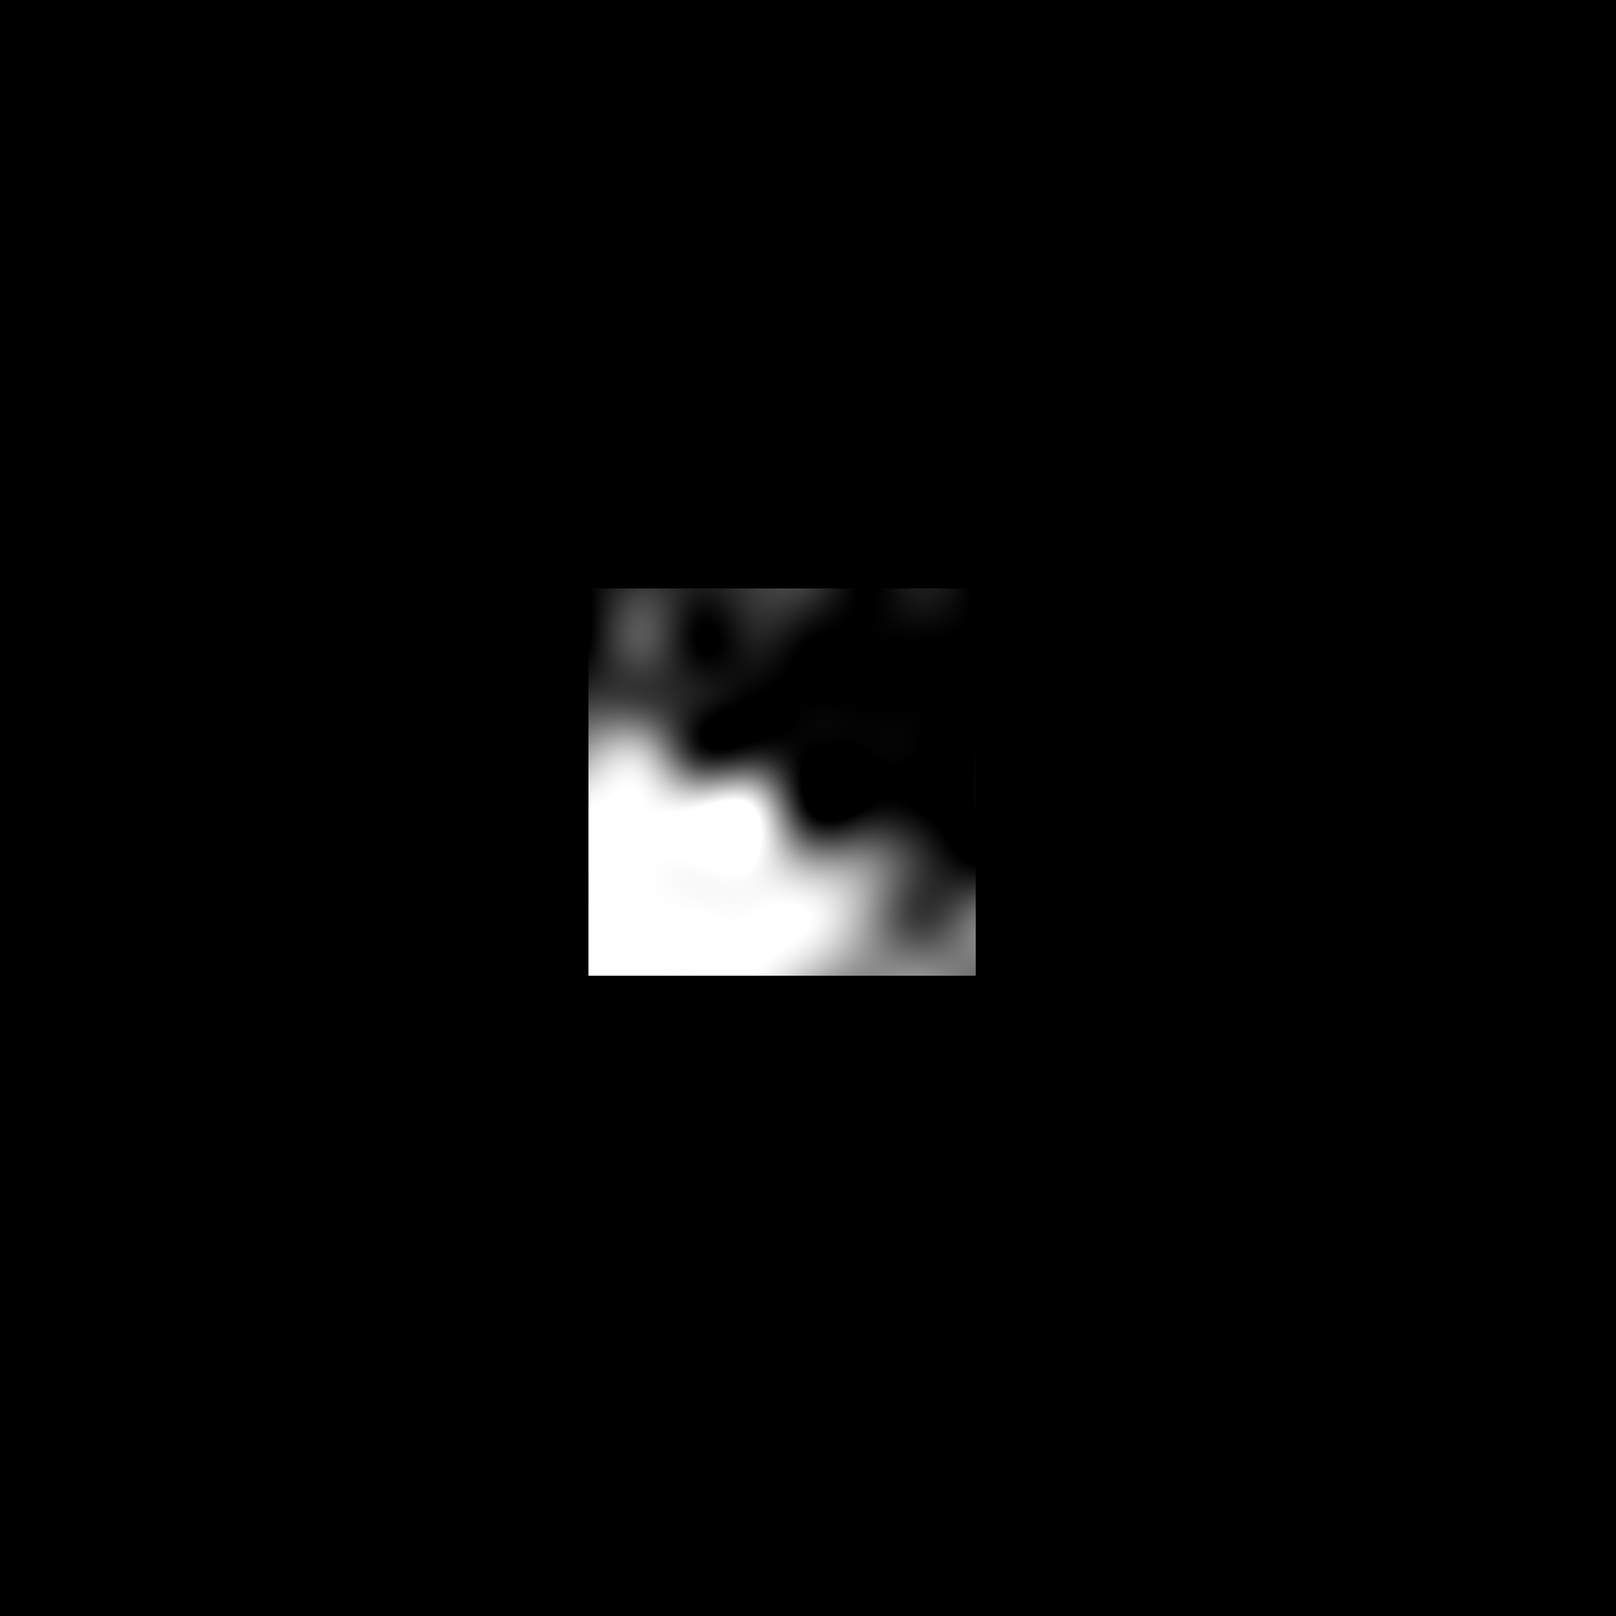
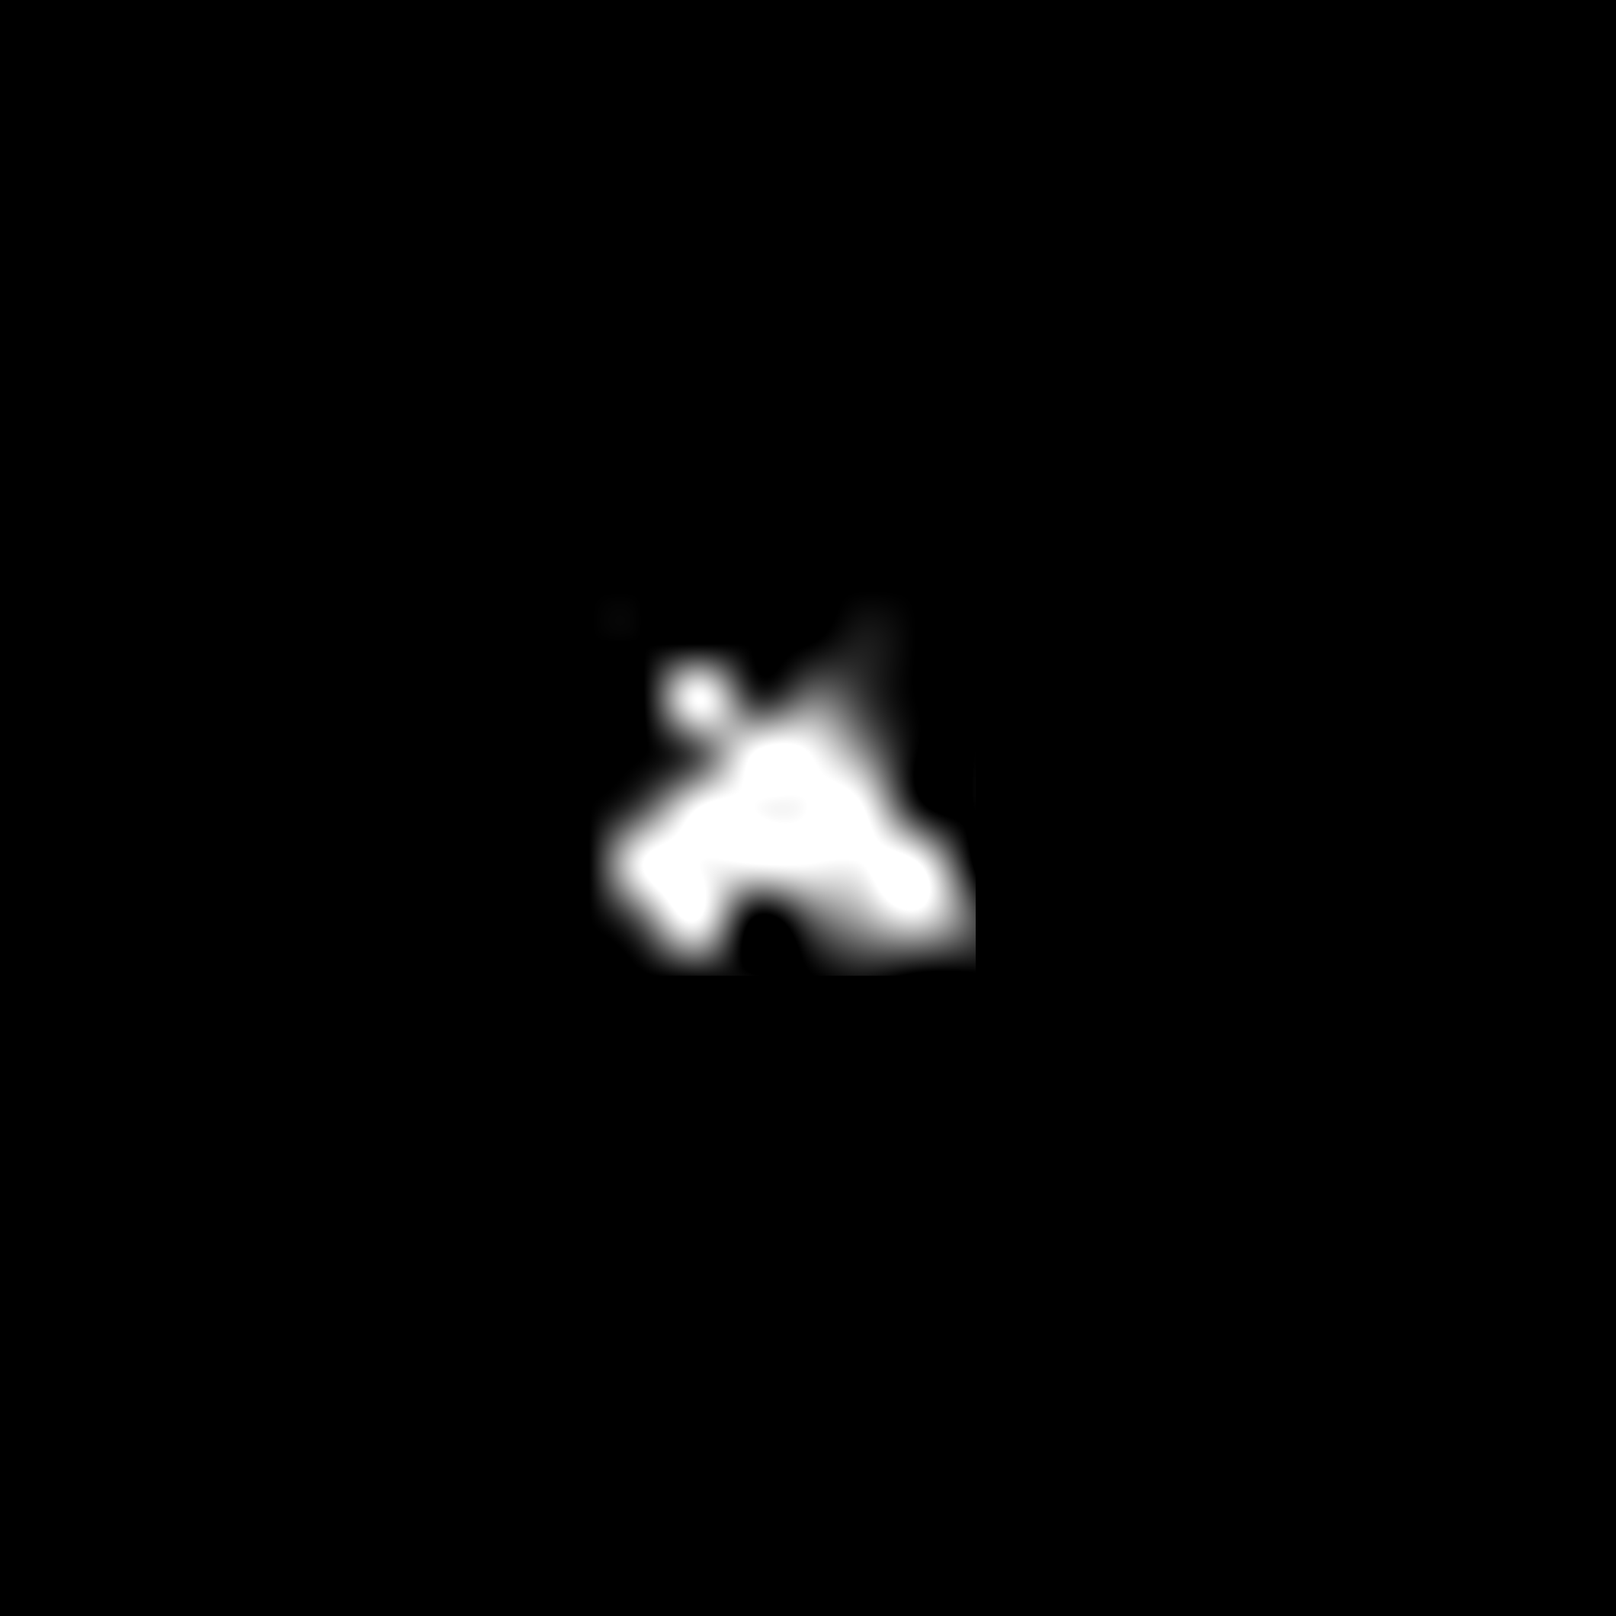
[Visual Disease]
- Rename code to clarify VI
- Add disable_save and debug support for impairment task
- Add vi mode and level selection support for impairment task
- Add overlay level support

Changed region(s): [[0.3425, 0.3425, 0.6226, 0.6226]]

diff --git a/igibson/render/mesh_renderer/mesh_renderer_vr.py b/igibson/render/mesh_renderer/mesh_renderer_vr.py
@@ -230,18 +230,21 @@ class MeshRendererVR(MeshRenderer):
         self.msaa = False
         self.vr_hud = None
 
-        # post processing mode
-        self.post_processing_mode = 0
+        # visual impairment mode
+        self.vi_mode = 0
+        self.vi_level = 1
+
         self.dioptres = -2.0
         self.presbyopia_near_point = 600.0
-        # post processing overlay
-        self.post_processing_overlay1_width = 3
-        self.post_processing_overlay2_width = 3.5
-        # self.post_processing_overlay2_width = 8
-        self.post_processing_overlay1 = self.gen_static_overlay("D:/Research/ig2/igibson/examples/vr/visual_disease_demo_mtls/amd4.png", self.post_processing_overlay1_width)
-        self.post_processing_overlay2 = self.gen_static_overlay("D:/Research/ig2/igibson/examples/vr/visual_disease_demo_mtls/gla3.png", self.post_processing_overlay2_width)
-        self.post_processing_overlay1.set_overlay_show_state(False)
-        self.post_processing_overlay2.set_overlay_show_state(False)
+        # visual impairment overlay
+        self.amd_overlay_width = 3
+        self.glaucoma_overlay_width = 3.5
+        self.amd_overlay, self.glaucoma_overlay = [], []
+        for i in range(3):
+            self.amd_overlay.append(self.gen_static_overlay(f"{os.getcwd()}/igibson/examples/vr/visual_disease_demo_mtls/amd{i+1}.png", self.amd_overlay_width))
+            self.glaucoma_overlay.append(self.gen_static_overlay(f"{os.getcwd()}/igibson/examples/vr/visual_disease_demo_mtls/gla{i+1}.png", self.glaucoma_overlay_width))
+            self.amd_overlay[i].set_overlay_show_state(False)
+            self.glaucoma_overlay[i].set_overlay_show_state(False)
 
     def gen_vr_hud(self):
         """
@@ -319,7 +322,7 @@ class MeshRendererVR(MeshRenderer):
         if self.vr_settings.use_vr:
             self.vrsys.releaseVR()
     
-    def update_post_processing_mode(self):
+    def update_vi_mode(self, mode=None):
         """
         Update post processing visual impairment mode
         0: Normal
@@ -330,21 +333,23 @@ class MeshRendererVR(MeshRenderer):
         5: Myopia / Hyperopia
         6: light overexposure
         """
-        self.post_processing_mode = (self.post_processing_mode + 1) % 7
-        self.vrsys.updateUniform1i(self.retinaShaderProgram, "postProcessingMode", self.post_processing_mode)
-        if self.post_processing_mode == 2:
-            self.post_processing_overlay1.set_overlay_show_state(True)
-        elif self.post_processing_mode == 3:
-            self.post_processing_overlay1.set_overlay_show_state(False)
-            self.post_processing_overlay2.set_overlay_show_state(True)
-        elif self.post_processing_mode == 4:
-            self.post_processing_overlay2.set_overlay_show_state(False)
+        if mode and not 0 <= mode <= 6:
+            raise ValueError("Unsuported VI mode")
+        self.vi_mode = mode if mode is not None else (self.vi_mode + 1) % 7
+        self.vrsys.updateUniform1i(self.retinaShaderProgram, "postProcessingMode", self.vi_mode)
+        if self.vi_mode == 2:
+            self.amd_overlay[self.vi_level].set_overlay_show_state(True)
+        elif self.vi_mode == 3:
+            self.amd_overlay[self.vi_level].set_overlay_show_state(False)
+            self.glaucoma_overlay[self.vi_level].set_overlay_show_state(True)
+        elif self.vi_mode == 4:
+            self.glaucoma_overlay[self.vi_level].set_overlay_show_state(False)
             self.vrsys.updateUniform1f(self.lensShaderProgram, "u_near_point", self.presbyopia_near_point)
             self.vrsys.updateUniform1f(self.lensShaderProgram, "u_far_point", 1000000000.0)
             self.vrsys.updateUniform1f(self.lensShaderProgram, "u_near_vision_factor", 1.0)
             self.vrsys.updateUniform1f(self.lensShaderProgram, "u_far_vision_factor", 0.0)
             self.vrsys.updateUniform1i(self.lensShaderProgram, "u_active", 1)
-        elif self.post_processing_mode == 5:
+        elif self.vi_mode == 5:
             if self.dioptres < 0: # myopia
                 self.vrsys.updateUniform1f(self.lensShaderProgram, "u_near_point", 0.0)
                 self.vrsys.updateUniform1f(self.lensShaderProgram, "u_far_point", -1000.0 / self.dioptres)
@@ -355,23 +360,27 @@ class MeshRendererVR(MeshRenderer):
                 self.vrsys.updateUniform1f(self.lensShaderProgram, "u_far_point", 1000000000.0)
                 self.vrsys.updateUniform1f(self.lensShaderProgram, "u_near_vision_factor",  1.0 + self.dioptres * DIOPTRES_SCALING)
                 self.vrsys.updateUniform1f(self.lensShaderProgram, "u_far_vision_factor", 0.0)
-        elif self.post_processing_mode == 6:
+        elif self.vi_mode == 6:
             self.vrsys.updateUniform1i(self.lensShaderProgram, "u_active", 0)
 
 
-    def update_post_processing_effect(self, pos):
-        if self.post_processing_mode == 2:
-            self.post_processing_overlay1.update_pos([(pos[0] - 0.5) * 2.5, (pos[1] - 0.5) * 2.5, -1])
-        elif self.post_processing_mode == 3:
-            self.post_processing_overlay2.update_pos([(pos[0] - 0.5) * 2.5, (pos[1] - 0.5) * 2.5, -1])
+    def update_vi_with_eye_pose(self, pos):
+        if self.vi_mode == 2:
+            self.amd_overlay[self.vi_level].update_pos([(pos[0] - 0.5) * 2.5, (pos[1] - 0.5) * 2.5, -1])
+        elif self.vi_mode == 3:
+            self.glaucoma_overlay[self.vi_level].update_pos([(pos[0] - 0.5) * 2.5, (pos[1] - 0.5) * 2.5, -1])
 
-        # if self.post_processing_mode == 2:
-        #     self.post_processing_overlay1.update_pos([(pos[0] - 0.5) * 4, (0.5 - pos[1]) * 4, -1])
-        # elif self.post_processing_mode == 3:
-        #     self.post_processing_overlay2.update_pos([(pos[0] - 0.5) * 4, (0.5 - pos[1]) * 4, -1])
-
-    def updatre_post_processing_extent(self):
-        if self.post_processing_mode == 5:
+    def update_vi_level(self, level = None):
+        if level and not 1 <= level <= 3:
+            raise ValueError("Currently VI level only supports 1 - 3")
+        new_vi_level = level - 1 if level is not None else (self.vi_level + 1) % 3
+        if self.vi_mode == 2:
+            self.amd_overlay[self.vi_level].set_overlay_show_state(False)
+            self.amd_overlay[new_vi_level].set_overlay_show_state(True)
+        elif self.vi_mode == 3:
+            self.glaucoma_overlay[self.vi_level].set_overlay_show_state(False)
+            self.glaucoma_overlay[new_vi_level].set_overlay_show_state(True)
+        elif self.vi_mode == 5:
             if self.dioptres == -3:
                 self.dioptres = 3
             else:
@@ -386,6 +395,8 @@ class MeshRendererVR(MeshRenderer):
                 self.vrsys.updateUniform1f(self.lensShaderProgram, "u_far_point", 1000000000.0)
                 self.vrsys.updateUniform1f(self.lensShaderProgram, "u_near_vision_factor",  1.0 + self.dioptres * DIOPTRES_SCALING)
                 self.vrsys.updateUniform1f(self.lensShaderProgram, "u_far_vision_factor", 0.0)
+
+        self.vi_level = new_vi_level
 
 if __name__ == "__main__":
     logging.basicConfig(level=logging.INFO)

diff --git a/igibson/examples/vr/impairment_task.py b/igibson/examples/vr/impairment_task.py
@@ -31,6 +31,10 @@ light_modulation_map_filename = os.path.join(
 )
 background_texture = os.path.join(igibson.ig_dataset_path, "scenes", "background", "urban_street_01.jpg")
 
+
+vi_choices = ["normal", "cataract", "amd", "glaucoma", "presbyopia", "myopia"]
+
+
 def load_scene(simulator, task):
     """Setup scene"""
     if task == "slice":
@@ -66,7 +70,6 @@ def load_scene(simulator, task):
 
 def parse_args():
     tasks_choices = ["catch", "navigate", "place", "slice", "throw", "wipe"]
-    vi_choices = ["normal", "cataract", "amd", "glaucoma", "myopia", "presbyopia"]
     parser = argparse.ArgumentParser(description="Run and collect a demo of a task")
     parser.add_argument(
         "--task",
@@ -78,20 +81,29 @@ def parse_args():
         help="Name of task to collect a demo of. Choose from catch/navigate/place/slice/slice/throw/wipe",
     )
     parser.add_argument(
-        "--vi",
+        "--mode",
         type=str,
         choices=vi_choices,
         required=False,
         default="normal",
         nargs="?",
-        help="Type of visual impairment. Choose from normal/cataract/amd/glaucoma/myopia/presbyopia",
+        help="Mode of visual impairment. Choose from normal/cataract/amd/glaucoma/myopia/presbyopia",
+    )
+    parser.add_argument(
+        "--level",
+        type=int,
+        choices=[1, 2, 3],
+        required=False,
+        default=1,
+        nargs="?",
+        help="Level of visual impairment. Choose from 1/2/3",
     )
     demo_file = os.path.join(tempfile.gettempdir(), "demo.hdf5")
     parser.add_argument(
         "--demo_file", type=str, default=demo_file, required=False, help="Path (and filename) of demo file"
     )
     parser.add_argument("--disable_save", action="store_true", help="Whether to disable saving logfiles.")
-    parser.add_argument("--profile", action="store_true", help="Whether to print profiling data.")
+    parser.add_argument("--debug", action="store_true", help="Whether to enable debug mode (right controller to switch between modes and levels).")
     return parser.parse_args()
 
 def main():
@@ -135,6 +147,8 @@ def main():
         )
         gravity = 9.8
     s = SimulatorVR(gravity = gravity, render_timestep=1/90.0, physics_timestep=1/180.0, mode="vr", rendering_settings=vr_rendering_settings, vr_settings=VrSettings(use_vr=True))
+    s.renderer.update_vi_mode(vi_choices.index(args.mode))
+    s.renderer.update_vi_level(level=args.level)
     p.setAdditionalSearchPath(pybullet_data.getDataPath())
     # scene setup
     load_scene(s, args.task)
@@ -172,19 +186,17 @@ def main():
         ret = lib.set_obj_pos(objs)
         # log writer
         # demo_file = os.path.join(tempfile.gettempdir(), f"{args.task}_{args.vi}_{trial_id}.hdf5")
-        demo_file = f"igibson/data/test/{args.task}_{args.vi}_{trial_id}.hdf5"
-        disable_save = False
-        profile=False
+        demo_file = f"igibson/data/demos/{args.task}_{args.mode}-{args.level}_{trial_id}.hdf5"
+
         instance_id = 0
         log_writer = None
-        if not disable_save:
+        if not args.disable_save:
             log_writer = IGLogWriter(
                 s,
                 log_filepath=demo_file,
                 task=None,
                 store_vr=True,
                 vr_robot=bvr_robot,
-                profiling_mode=profile,
                 filter_objects=True,
             )
             log_writer.set_up_data_storage()
@@ -192,9 +204,9 @@ def main():
         
 
         # Main simulation loop
-        success, terminate = lib.main(s, log_writer, disable_save, bvr_robot, objs, ret)
+        success, terminate = lib.main(s, log_writer, args.disable_save, args.debug, bvr_robot, objs, ret)
         
-        if log_writer and not disable_save:
+        if not args.disable_save:
             log_writer.end_log_session()
 
         if terminate:
@@ -222,9 +234,10 @@ def main():
             break
         s.set_hud_show_state(False)        
     s.disconnect()
-    np.save(f"igibson/data/demos/{args.task}_{args.vi}_success_list.npy", task_success_list)
-    np.save(f"igibson/data/demos/{args.task}_{args.vi}_completion_time.npy", task_completion_time)
-    print(f"igibson/data/demos/{args.task}_{args.vi} data collection complete! Total trial: {trial_id}, Total time: {time.time() - start_time}")
+    if not args.disable_save:
+        np.save(f"igibson/data/demos/{args.task}_{args.mode}-{args.level}_success_list.npy", task_success_list)
+        np.save(f"igibson/data/demos/{args.task}_{args.mode}-{args.level}_completion_time.npy", task_completion_time)
+    print(f"igibson/data/demos/{args.task}_{args.mode}-{args.level} data collection complete! Total trial: {trial_id}, Total time: {time.time() - start_time}")
 
 if __name__ == "__main__":
     logging.basicConfig(level=logging.INFO)

diff --git a/igibson/simulator_vr.py b/igibson/simulator_vr.py
@@ -840,7 +840,7 @@ class SimulatorVR(Simulator):
 
         self.renderer.vrsys.triggerHapticPulseForDevice(device, int(self.max_haptic_duration * strength))
 
-    def update_post_processing_effect(self):
+    def update_vi_effect(self):
         """
         update post processing visual impairment mode and effect
         """
@@ -848,12 +848,12 @@ class SimulatorVR(Simulator):
         if self.query_vr_event(vr_height_device, "post_processing_toggle"):
             _, touch_x, _, _ = self.get_button_data_for_controller(vr_height_device)
             if touch_x < -0.7:
-                self.renderer.update_post_processing_mode()
+                self.renderer.update_vi_mode()
             elif touch_x > 0.7:
-                self.renderer.updatre_post_processing_extent()
-        is_valid, _, _, pos, _, _, _, _, _, right_pos = self.get_eye_tracking_data()
+                self.renderer.update_vi_level()
+        is_valid, _, _, pos, _, _, _, _, _, _ = self.get_eye_tracking_data()
         if is_valid:
-            self.renderer.update_post_processing_effect(pos)
+            self.renderer.update_vi_with_eye_pose(pos)
 
     def proj_gaze(self, eye_vec, cam_view_matrix, cam_proj_matrix, img_dim=None):
         ''' Map 3D gaze vector to 2D pixel locations'''

diff --git a/igibson/examples/vr/simple_task/place.py b/igibson/examples/vr/simple_task/place.py
@@ -58,7 +58,7 @@ def set_obj_pos(objs):
         objs["cube"][i].set_orientation([random.random(), random.random(), random.random(), random.random()])
         objs["cube"][i].force_wakeup()
 
-def main(s, log_writer, disable_save, robot, objs, ret):
+def main(s, log_writer, disable_save, debug, robot, objs, ret):
     success, terminate = False, False
     success_time = 0
     # Main simulation loop
@@ -67,7 +67,8 @@ def main(s, log_writer, disable_save, robot, objs, ret):
         if log_writer and not disable_save:
             log_writer.process_frame()     
         robot.apply_action(s.gen_vr_robot_action())
-        s.update_post_processing_effect()
+        if debug:
+            s.update_vi_effect()
 
         # End demo by pressing left overlay toggle
         if s.query_vr_event("left_controller", "overlay_toggle"):

diff --git a/igibson/examples/vr/simple_task/wipe.py b/igibson/examples/vr/simple_task/wipe.py
@@ -91,7 +91,7 @@ def set_obj_pos(objs):
     objs["desk"].force_wakeup()
 
 
-def main(s, log_writer, disable_save, robot, objs, ret):
+def main(s, log_writer, disable_save, debug, robot, objs, ret):
     success, terminate = False, False
     success_time = 0
     # Main simulation loop.
@@ -100,7 +100,8 @@ def main(s, log_writer, disable_save, robot, objs, ret):
         if log_writer and not disable_save:
             log_writer.process_frame()     
         robot.apply_action(s.gen_vr_robot_action())
-        s.update_post_processing_effect()
+        if debug:
+            s.update_vi_effect()
         
         if not objs["desk"].states[object_states.Stained].get_value():
             if success_time:

diff --git a/igibson/examples/vr/simple_task/navigate.py b/igibson/examples/vr/simple_task/navigate.py
@@ -52,7 +52,7 @@ def set_obj_pos(objs):
 
 
 
-def main(s, log_writer, disable_save, robot, objs, args): 
+def main(s, log_writer, disable_save, debug, robot, objs, args): 
     success, terminate = False, False 
     success_time = 0  
     done = set()
@@ -62,7 +62,8 @@ def main(s, log_writer, disable_save, robot, objs, args):
         if log_writer and not disable_save:
             log_writer.process_frame()       
         robot.apply_action(s.gen_vr_robot_action())
-        s.update_post_processing_effect()
+        if debug:
+            s.update_vi_effect()
 
         # End demo by pressing overlay toggle
         if s.query_vr_event("left_controller", "overlay_toggle"):

diff --git a/igibson/examples/vr/simple_task/throw.py b/igibson/examples/vr/simple_task/throw.py
@@ -30,7 +30,7 @@ def set_obj_pos(objs):
 
 
 
-def main(s, log_writer, disable_save, robot, objs, ret):
+def main(s, log_writer, disable_save, debug, robot, objs, ret):
     success, terminate = False, False
     success_time = 0
     # Main simulation loop
@@ -39,7 +39,8 @@ def main(s, log_writer, disable_save, robot, objs, ret):
         if log_writer and not disable_save:
             log_writer.process_frame()     
         robot.apply_action(s.gen_vr_robot_action())
-        s.update_post_processing_effect()
+        if debug:
+            s.update_vi_effect()
 
         # keep basket still
         objs["basket"].set_position((0.7, ret["basket_y"], 0.62))

diff --git a/igibson/examples/vr/simple_task/slice.py b/igibson/examples/vr/simple_task/slice.py
@@ -77,7 +77,7 @@ def set_obj_pos(objs):
     
 
 
-def main(s, log_writer, disable_save, robot, objs, ret):
+def main(s, log_writer, disable_save, debug, robot, objs, ret):
     success, terminate = False, False
     success_time = 0
     while True:
@@ -85,7 +85,8 @@ def main(s, log_writer, disable_save, robot, objs, ret):
         if log_writer and not disable_save:
             log_writer.process_frame()     
         robot.apply_action(s.gen_vr_robot_action())
-        s.update_post_processing_effect()
+        if debug:
+            s.update_vi_effect()
 
         if objs["apple"].states[object_states.Sliced].get_value():
             if success_time:

diff --git a/igibson/examples/vr/simple_task/catch.py b/igibson/examples/vr/simple_task/catch.py
@@ -17,7 +17,7 @@ def import_obj(s):
 def set_obj_pos(objs):
     pass
 
-def main(s, log_writer, disable_save, robot, objs, ret):
+def main(s, log_writer, disable_save, debug, robot, objs, ret):
     terminate = False
     start_time = time.time()
     cur_time = start_time
@@ -41,7 +41,8 @@ def main(s, log_writer, disable_save, robot, objs, ret):
         if log_writer and not disable_save:
             log_writer.process_frame()       
         robot.apply_action(s.gen_vr_robot_action())
-        s.update_post_processing_effect()
+        if debug:
+            s.update_vi_effect()
 
         ball_pos = objs["ball"].get_position()
 
